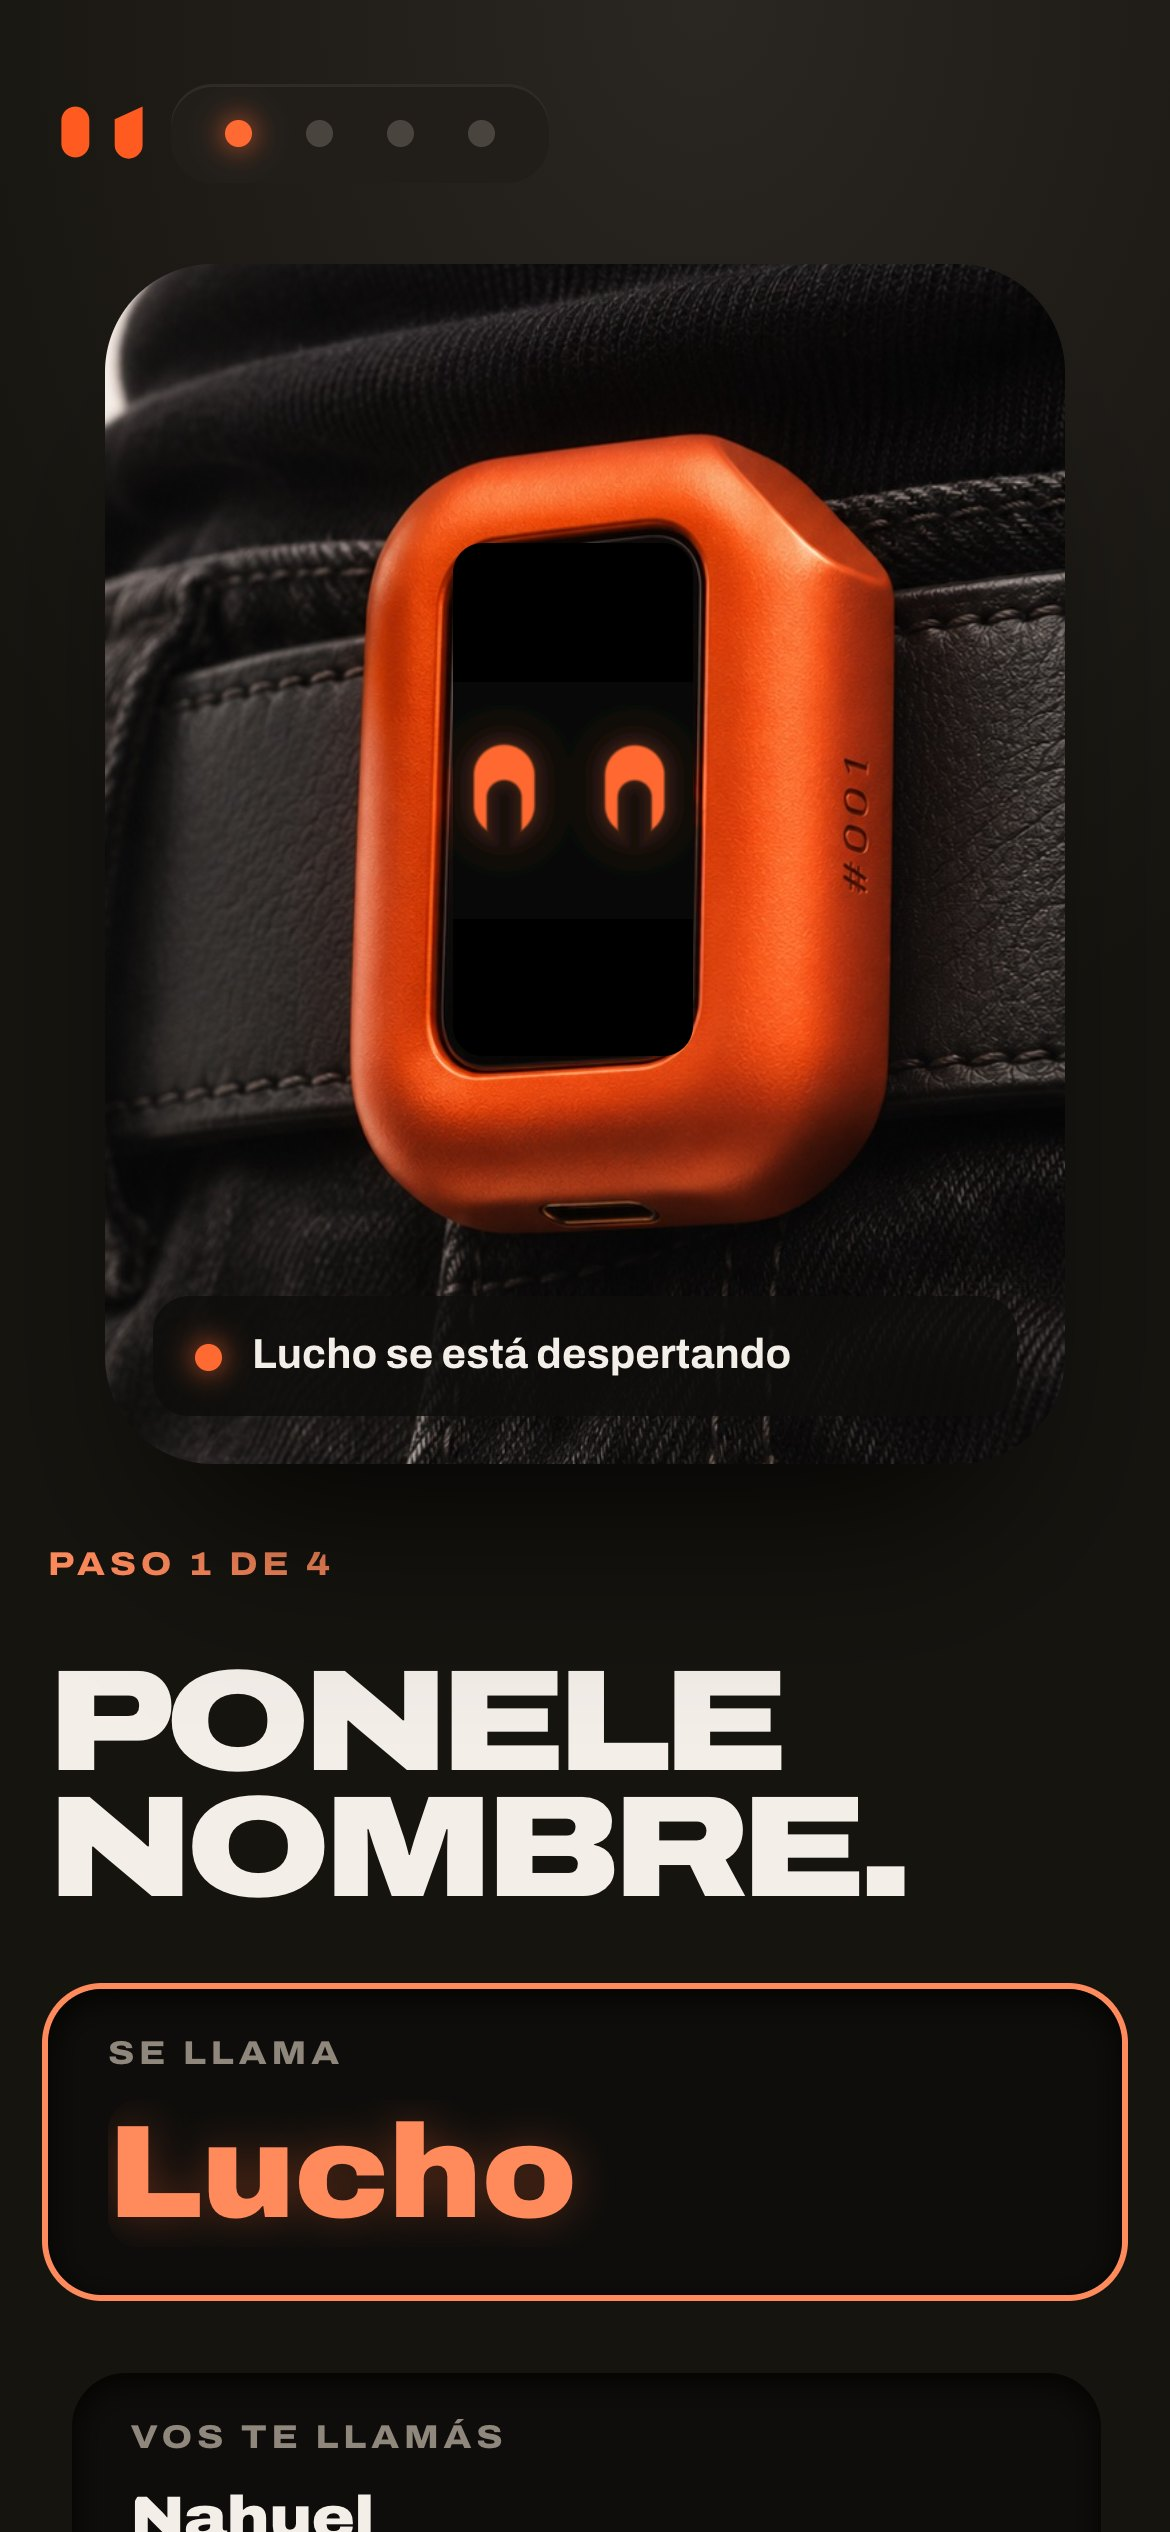
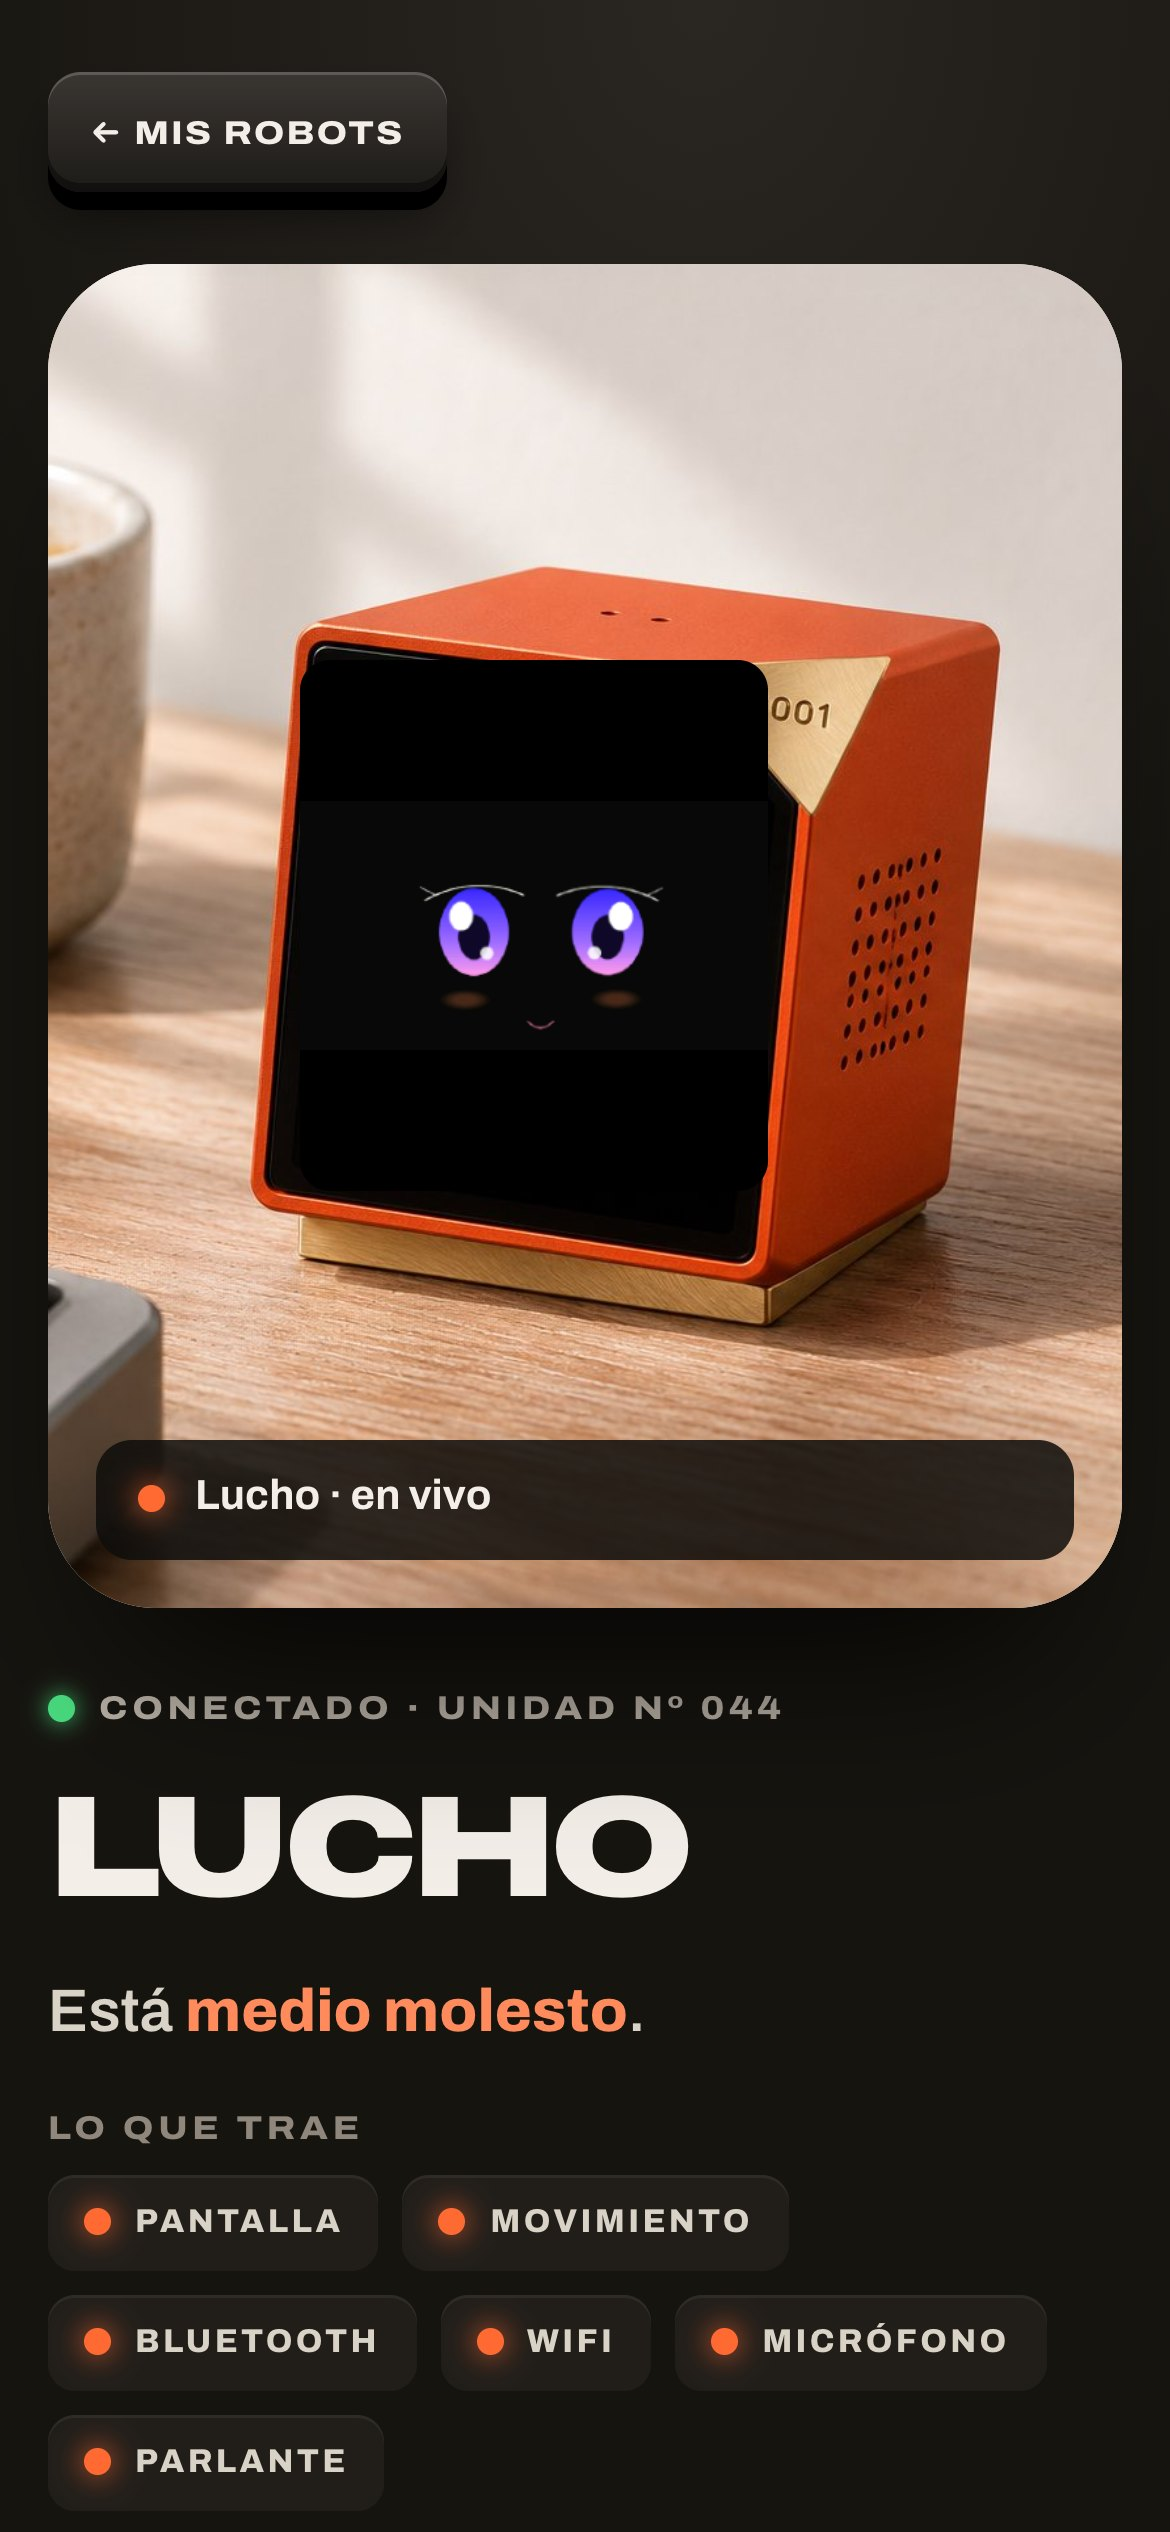
Landing en el celu y la Unidad con su foto real
En el celu: la joyería es una tira que se desliza, el título y los colores
de la reserva entran, el teléfono de la app tiene un tamaño razonable, sin
placeholders ni [PRECIO] a la vista. La Unidad tiene su foto (el cubo
naranja) en la landing y en la consola, con la cara viva en su pantalla, y
las capturas de la app muestran la consola (no el encendido).

Claude-Session: https://claude.ai/code/session_019W2t1Ee6Wo3w9tsfdPpjM8

diff --git a/web/src/routes/+page.svelte b/web/src/routes/+page.svelte
@@ -211,16 +211,16 @@
   <section id="piezas" class="hueso seccion sin-arriba">
     <div class="contenedor angosto grilla-2">
       <article class="pieza aparece">
-        <Foto alt="la Unidad en el escritorio" clara />
+        <Foto src="/landing/unidad.jpg" alt="La Unidad, un cubo naranja con dos ojos, sobre el escritorio" />
         <div class="pie-pieza">
-          <div><h3 class="t-h3"><a href="/piezas/unidad">Unidad</a></h3><span class="detalle">Robot de escritorio · [PRECIO]</span></div>
+          <div><h3 class="t-h3"><a href="/piezas/unidad">Unidad</a></h3><span class="detalle">Robot de escritorio</span></div>
           <a class="inflado" href="#reservar" onclick={() => elegirPieza('unidad')}>Reservar</a>
         </div>
       </article>
       <article class="pieza aparece" style:transition-delay="80ms">
         <Foto src="/landing/hebilla.jpg" alt="El Broche como hebilla naranja de cinturón, con una carita guiñando en la pantalla" />
         <div class="pie-pieza">
-          <div><h3 class="t-h3"><a href="/piezas/broche">Broche</a></h3><span class="detalle">Joyería electrónica · [PRECIO]</span></div>
+          <div><h3 class="t-h3"><a href="/piezas/broche">Broche</a></h3><span class="detalle">Joyería electrónica</span></div>
           <a class="inflado" href="#reservar" onclick={() => elegirPieza('broche')}>Reservar</a>
         </div>
       </article>
@@ -229,6 +229,25 @@
 
   <!-- 3b · Joyería electrónica: la vitrina. Mientras se scrollea, queda fija y
        las piezas pasan de a una bajo un foco. -->
+  <!-- En el celu, la vitrina es una tira que se desliza (sin el escenario fijo). -->
+  <section class="vitrina-movil hueso" aria-label="Joyería electrónica">
+    <div class="contenedor pila-32">
+      <span class="ficha arriba-sola">Joyería electrónica</span>
+      <h2 class="t-h2">Llevalo<br />puesto.</h2>
+    </div>
+    <div class="tira-joyas">
+      {#each JOYAS as j, i}
+        <article class="joya">
+          <img src={j.foto} alt={j.queMuestra} loading="lazy" decoding="async" />
+          <span class="v-numero chico">#{String(i + 1).padStart(3, '0')}</span>
+          <b class="t-h3">{j.nombre}</b>
+          <p class="t-cuerpo">{j.frase}</p>
+          <div class="fila"><a class="inflado mini" href="/piezas/{j.clave}">Ver</a><a class="inflado contorno-claro mini" href="#reservar" onclick={() => elegirPieza(j.clave)}>Reservar</a></div>
+        </article>
+      {/each}
+    </div>
+  </section>
+
   <section id="joyeria" class="vitrina" style:--n={JOYAS.length} bind:this={vitrina}>
     <div class="escenario-v">
       <div class="foco" aria-hidden="true"></div>
@@ -272,8 +291,8 @@
     <div class="contenedor angosto pila-48">
       <h2 class="t-h2 naranja aparece">Hacelo<br />tuyo.</h2>
       <div class="grilla-3">
-        <figure class="opcion aparece"><Foto alt="imagen vintage en pantalla" proporcion="16 / 10" radio="28px" /><figcaption class="t-h4">Tu imagen</figcaption></figure>
-        <figure class="opcion aparece" style:transition-delay="80ms"><Foto alt="mini GIF en el Broche" proporcion="16 / 10" radio="28px" video /><figcaption class="t-h4">Un GIF</figcaption></figure>
+        <figure class="opcion aparece"><div class="pantallita imagen" role="img" aria-label="Una foto en la pantalla del robot"><span class="sol"></span><span class="cerros"></span></div><figcaption class="t-h4">Tu imagen</figcaption></figure>
+        <figure class="opcion aparece" style:transition-delay="80ms"><div class="pantallita gif" role="img" aria-label="Un GIF animado en la pantalla del robot"><span class="corazon c1">♥</span><span class="corazon c2">♥</span><span class="corazon c3">♥</span><em>GIF</em></div><figcaption class="t-h4">Un GIF</figcaption></figure>
         <figure class="opcion aparece" style:transition-delay="160ms">
           <div class="caras">
             {#each caras as c}<img src={c.url} alt={'Cara ' + c.nombre} width="320" height="172" />{/each}
@@ -559,7 +578,33 @@
   .detalle-claro { margin: 0; color: #c4c4c4; font-size: 18px; line-height: 1.4; }
   .trampa { position: absolute; width: 1px; height: 1px; overflow: hidden; clip-path: inset(50%); }
 
+  .pantallita { position: relative; aspect-ratio: 16 / 10; border-radius: 28px; overflow: hidden; background: #050505; box-shadow: inset 0 0 0 10px #1c1a17; }
+  .pantallita.imagen { background: linear-gradient(180deg, #ff9a62 0%, #f2541a 45%, #5a1f6e 100%); box-shadow: inset 0 0 0 10px #1c1a17; }
+  .sol { position: absolute; left: 50%; top: 34%; width: 26%; aspect-ratio: 1; translate: -50% 0; border-radius: 50%; background: #ffe2a8; box-shadow: 0 0 40px #ffd08a; }
+  .cerros { position: absolute; inset: auto 0 0 0; height: 42%; background: #1a1032; clip-path: polygon(0 60%, 18% 30%, 36% 55%, 58% 20%, 78% 50%, 100% 28%, 100% 100%, 0 100%); }
+  .pantallita.gif { display: flex; align-items: center; justify-content: center; gap: 6%; }
+  .corazon { font-size: clamp(36px, 6vw, 64px); color: #ff6a33; text-shadow: 0 0 18px #ff6a33; animation: latir 1.2s ease-in-out infinite; }
+  .corazon.c2 { animation-delay: 0.2s; } .corazon.c3 { animation-delay: 0.4s; }
+  @keyframes latir { 0%, 100% { transform: scale(0.8); opacity: 0.6; } 50% { transform: scale(1.15); opacity: 1; } }
+  .pantallita.gif em { position: absolute; right: 18px; bottom: 16px; padding: 4px 8px; border-radius: 6px; background: #ff5a1f; color: #111; font: 900 12px/1 'Archivo', sans-serif; font-style: normal; letter-spacing: 0.08em; }
+  .vitrina-movil { display: none; }
+  .tira-joyas { display: flex; gap: 14px; overflow-x: auto; scroll-snap-type: x mandatory; padding: 8px 16px 24px; scrollbar-width: none; }
+  .tira-joyas::-webkit-scrollbar { display: none; }
+  .joya { flex: none; width: 78%; scroll-snap-align: center; display: flex; flex-direction: column; gap: 10px; padding: 16px; border-radius: 28px; background: #f3eeea; box-shadow: 0 30px 50px -40px rgba(0, 0, 0, 0.5); }
+  .joya img { width: 100%; aspect-ratio: 4 / 5; object-fit: cover; border-radius: 20px; mix-blend-mode: darken; }
+  .v-numero.chico { font-size: 28px; }
+
   @media (max-width: 720px) {
+    .vitrina { display: none; }
+    .vitrina-movil { display: flex; flex-direction: column; gap: 24px; padding: 72px 0 40px; }
+    .reserva .t-display { font-size: 15vw; }
+    .selector { flex-wrap: wrap; border-radius: 28px; padding: 8px; row-gap: 12px; }
+    .selector .relleno { flex-basis: 100%; height: 0; }
+    .muestra { width: 40px; height: 40px; }
+    .escenario { height: 540px; }
+    .telefono.centro { width: 228px; height: 480px; margin-left: -114px; top: 30px; border-radius: 40px; }
+    .telefono.centro .bisel { border-radius: 33px; }
+    .telefono.centro .pantalla-tel { border-radius: 30px; }
     .tarjeta-negra, .paso, .formulario { padding: 24px; }
     .formulario.banda { grid-template-columns: 1fr; }
     .escenario { height: 600px; }

diff --git a/web/src/routes/piezas/[clave]/+page.svelte b/web/src/routes/piezas/[clave]/+page.svelte
@@ -38,7 +38,6 @@
             {#each p.fichas as f}<span class="ficha">{f}</span>{/each}
           </div>
           <div class="entre">
-            <span class="precio">[PRECIO]</span>
             <a class="inflado" href="/?pieza={p.clave}#reservar">Reservar</a>
           </div>
         </div>
@@ -74,7 +73,6 @@
   .foto-grande :global(.foto) { box-shadow: 0 32px 48px -32px rgba(0, 0, 0, 0.6); }
   /* Que la palabra más larga entre entera en la columna (~600 px). */
   .texto .t-display { font-size: min(112px, calc(600px / var(--largo) * 1.05), calc(9vw * 8 / var(--largo))); }
-  .precio { font: 900 32px/1 'Archivo', sans-serif; font-stretch: 120%; }
   .nada { padding: 96px 40px; }
   .otras { display: grid; grid-template-columns: repeat(auto-fill, minmax(200px, 1fr)); gap: 24px; }
   .otra .t-h4 { font-size: clamp(20px, 1.8vw, 26px); overflow-wrap: anywhere; }

diff --git a/web/src/lib/consola/Producto.svelte b/web/src/lib/consola/Producto.svelte
@@ -19,7 +19,7 @@
   <img src={e.src} alt={e.alt} style="width: {e.foto.ancho}%; left: {e.foto.izq}%; top: {e.foto.arriba}%" />
   <div class="pantalla" class:redonda={modelo.redonda}
     style="left: {e.pantalla.izq}%; top: {e.pantalla.arriba}%; width: {e.pantalla.ancho}%; height: {e.pantalla.alto}%">
-    <div class="encastre" class:apaisada={!modelo.redonda && e.pantalla.alto * 5 > e.pantalla.ancho * 4}>
+    <div class="encastre" class:apaisada={!modelo.redonda && e.pantalla.alto * 5 > e.pantalla.ancho * 4 * 1.5}>
       <Pantalla {config} {visible} redonda={modelo.redonda} desnuda etiqueta="Pantalla de {etiqueta || 'tu robot'}, en vivo (tocala)" />
     </div>
   </div>

diff --git a/web/src/lib/consola/modelo.ts b/web/src/lib/consola/modelo.ts
@@ -24,12 +24,13 @@ export type Encuadre = {
   fondo: string;
 };
 
+// La Unidad (pantalla rectangular): el cubo naranja sobre el escritorio.
 const RECTANGULAR: Encuadre = {
-  src: '/landing/hebilla.jpg',
-  alt: 'El robot puesto en un cinturón',
-  foto: { ancho: 155.56, izq: -27.78, arriba: -25.56 },
-  pantalla: { izq: 36.11, arriba: 23.33, ancho: 25, alto: 42.78 },
-  fondo: '#0e0d0b',
+  src: '/landing/unidad.jpg',
+  alt: 'La Unidad sobre un escritorio',
+  foto: { ancho: 100, izq: 0, arriba: 0 },
+  pantalla: { izq: 23.5, arriba: 29.5, ancho: 43.5, alto: 39.5 },
+  fondo: '#e9e2d8',
 };
 
 const REDONDA: Encuadre = {

diff --git a/web/src/lib/landing/piezas.ts b/web/src/lib/landing/piezas.ts
@@ -20,8 +20,8 @@ export const PIEZAS: Pieza[] = [
     nombre: 'Unidad',
     tipo: 'Robot',
     frase: 'Tu robot de escritorio.',
-    foto: '',
-    queMuestra: 'la Unidad en el escritorio',
+    foto: '/landing/unidad.jpg',
+    queMuestra: 'La Unidad, un cubo naranja con dos ojos, sobre el escritorio',
     fichas: ['Cara en pantalla', 'WiFi + Bluetooth', 'Siente el movimiento', 'Se actualiza sola', 'Nº grabado'],
   },
   {
